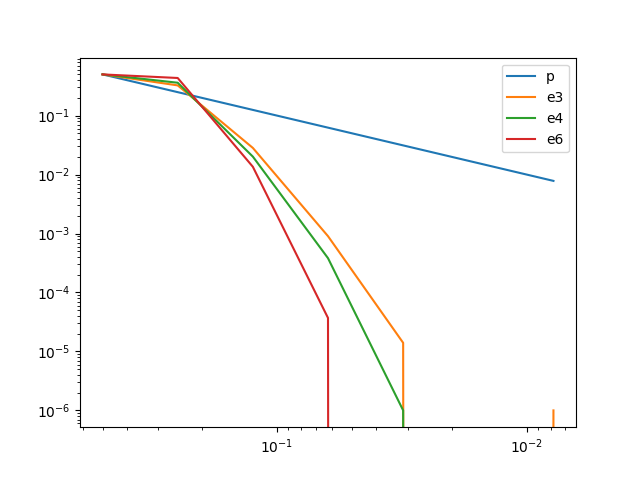
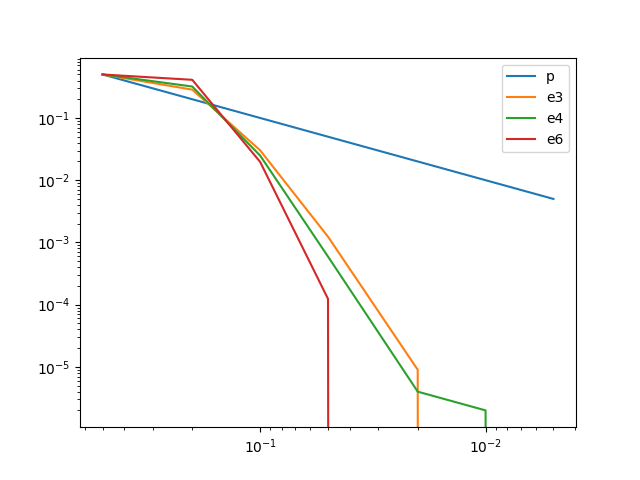
add viterbi hamming

diff --git a/professional/ele-32/lab3/main.cpp b/professional/ele-32/lab3/main.cpp
@@ -13,10 +13,7 @@ int main() {
 	Random *r = new Random();
 	Binary *bin = new Binary(7);
 
-	std::vector<double> probabilities;
-	for (double p = 0.5; p > 0.004; p /= 2) {
-		probabilities.push_back(p);
-	}
+	std::vector<double> probabilities = {0.5, 0.2, 0.1, 0.05, 0.02, 0.01, 0.005};
 	std::vector<double> encoderP[3];
 	for (const auto &p : probabilities) {
 		double mean[3] = {};

diff --git a/professional/ele-32/lab3/euclidian.cpp b/professional/ele-32/lab3/euclidian.cpp
@@ -15,9 +15,6 @@ int main() {
 
 	std::vector<double> probabilities = {0.5, 0.2, 0.1, 0.05, 0.02, 0.01, 0.005};
 	std::vector<double> snr = {0., 0.3542, 0.8212, 1.35277, 2.1089, 2.706, 3.3174, 4.142, 4.775};
-	for (double p = 0.5; p > 0.004; p /= 2) {
-		probabilities.push_back(p);
-	}
 	std::vector<double> encoderP[3];
 	int ke = -1;
 	for (const auto &p : probabilities) {
